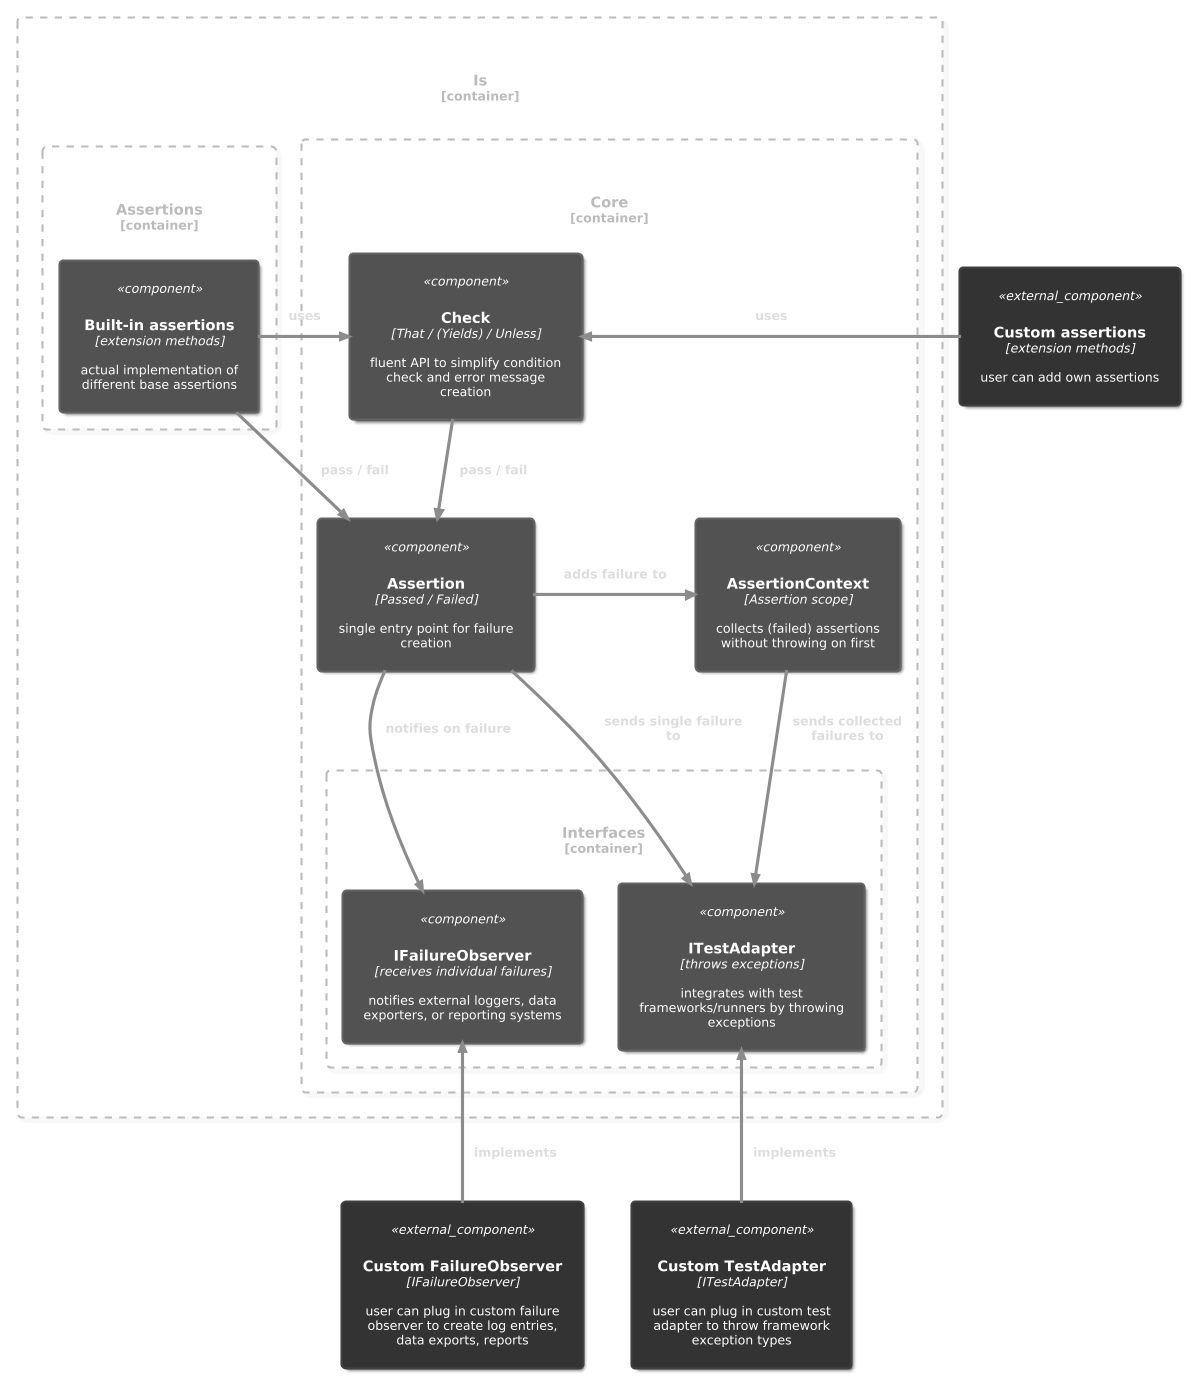
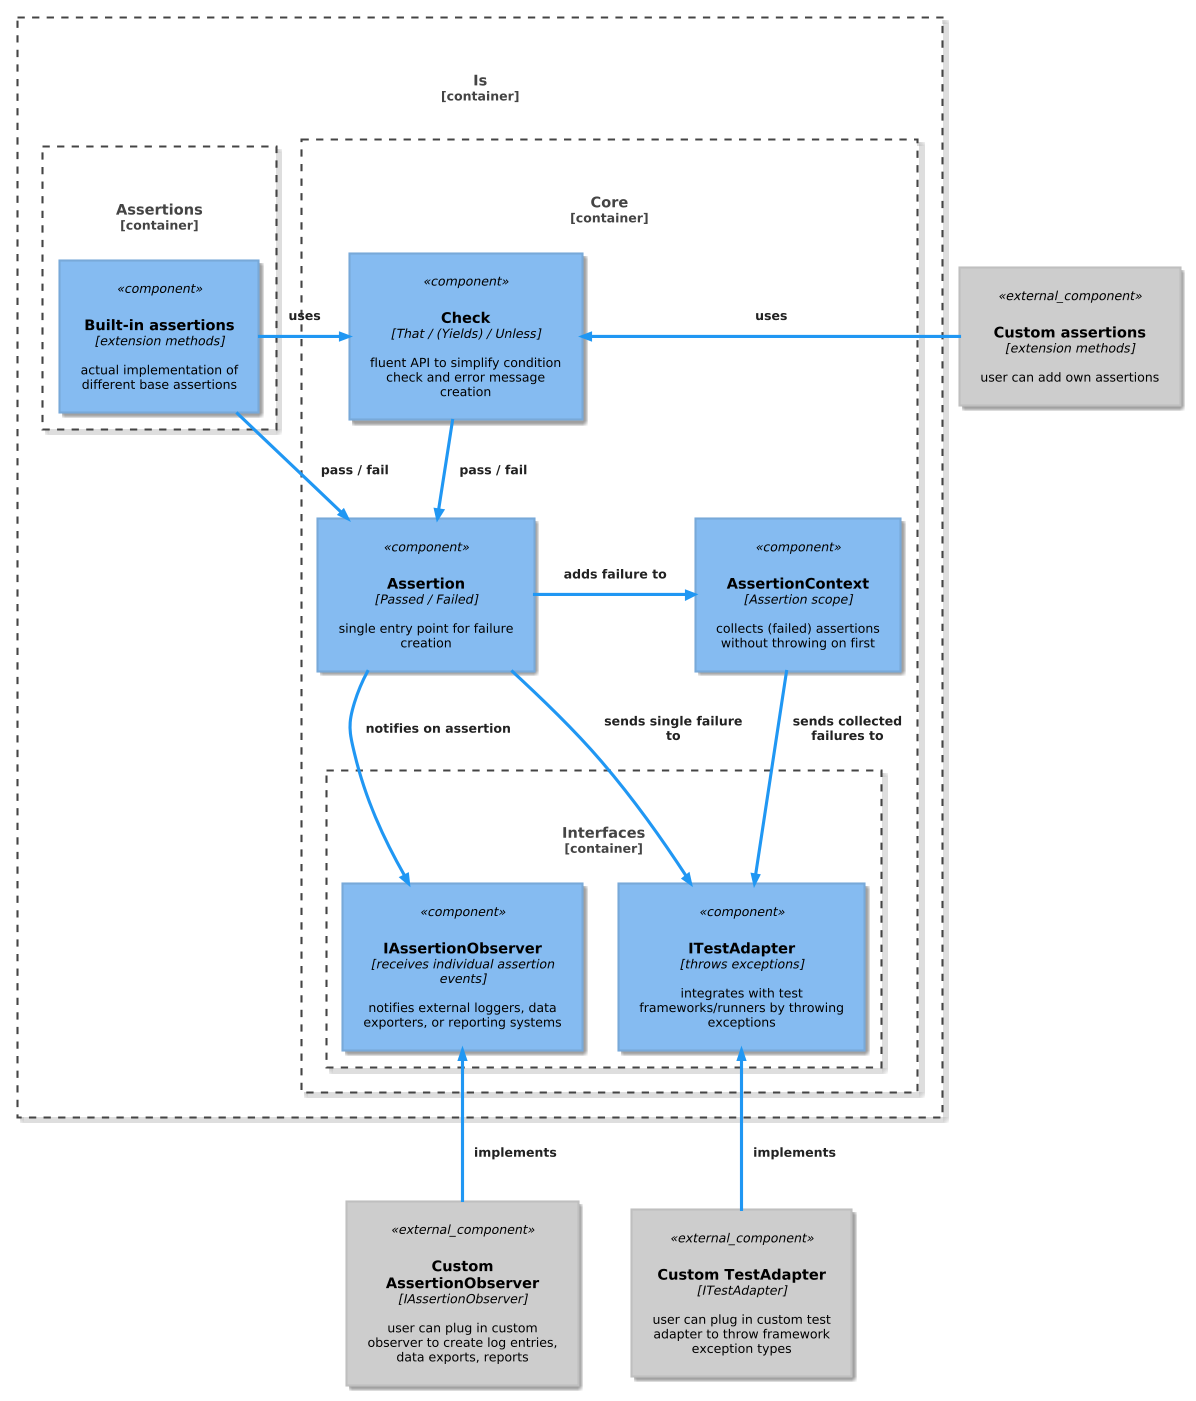
update docs

Changed region(s): [[0.0, 0.0, 0.99, 0.9942], [0.3712, 0.0621, 0.4331, 0.0932]]

diff --git a/README.md b/README.md
@@ -17,11 +17,16 @@
   - [Booleans](#booleans)
   - [Collections](#collections)
   - [Comparisons](#comparisons)
+  - [DateTimes](#datetimes)
   - [Delegates](#delegates)
+  - [Enums](#enums)
   - [Equality](#equality)
+  - [Files](#files)
   - [Null](#null)
   - [Strings](#strings)
   - [Types](#types)
+
+- [Guard Clauses](#guard-clauses)
 
 - [Custom Assertions](#custom-assertions)
   - [Example with `IsAssertion(s)` attribute](#example-with-isassertions-attribute)
@@ -33,7 +38,8 @@
   - [`AssertionContext` with using statement](#assertioncontext-with-using-statement)
   - [`AssertionContext` with Test Framework Attribute](#assertioncontext-with-test-framework-attribute)
   - [Disabling `ITestAdapter`](#disabling-itestadapter)
-  - [FailureReport with `IFailureObserver` ](#failurereport-with-ifailureobserver)
+  - [Assertion Reports with `IAssertionObserver`](#assertion-reports-with-iassertionobserver)
+    - [Built-in Observers](#built-in-observers)
 
 
 
@@ -121,6 +127,15 @@ Enumerable.Range(1, 3).IsUnique(); // ✅
 Enumerable.Range(1, 3).IsEmpty(); // ❌
 Enumerable.Range(1, 3).IsIn(0, 1, 2, 3, 4); // ✅
 Enumerable.Range(1, 3).IsEquivalentTo(Enumerable.Range(1, 3).Reverse()); // ✅
+
+// Order checking
+new[] { 1, 2, 3 }.IsOrdered(); // ✅
+new[] { 3, 2, 1 }.IsOrderedDescending(); // ✅
+
+// Deep equivalence (compares elements by value, not reference)
+var list1 = new[] { new { Name = "A" }, new { Name = "B" } };
+var list2 = new[] { new { Name = "A" }, new { Name = "B" } };
+list1.IsDeeplyEquivalentTo(list2); // ✅
 ```
 
 ### Comparisons
@@ -135,6 +150,16 @@ Enumerable.Range(1, 3).IsEquivalentTo(Enumerable.Range(1, 3).Reverse()); // ✅
 
 TimeSpan.Parse("1:23").IsApproximately(TimeSpan.Parse("1:24"), TimeSpan.FromMinutes(1)); // ✅
 TimeSpan.Parse("1:23").IsApproximately(TimeSpan.Parse("1:25"), TimeSpan.FromMinutes(1)); // ❌
+```
+
+### DateTimes
+```csharp
+var now = DateTime.Now;
+
+now.IsExpired(TimeSpan.FromHours(1)); // ❌ (not expired yet)
+now.IsSameDay(DateTime.Today); // ✅
+now.IsOlderThan(TimeSpan.FromMinutes(5)); // ❌
+now.IsYoungerThan(TimeSpan.FromMinutes(5)); // ✅
 ```
 
 ### Delegates
@@ -152,6 +177,12 @@ action.IsAllocatingAtMost(10_300); // ✅
 action.IsAllocatingAtMost(10_200); // ❌
 ```
 
+### Enums
+```csharp
+StatusCode.Pending.IsAnyOf(StatusCode.Pending, StatusCode.Processing); // ✅
+StatusCode.Completed.IsNoneOf(StatusCode.Pending, StatusCode.Processing); // ✅
+```
+
 ### Equality
 ```csharp
 (0.1 + 0.2).IsExactly(0.3); // ❌
@@ -162,6 +193,29 @@ action.IsAllocatingAtMost(10_200); // ❌
 Enumerable.Range(1, 4).Is(1, 2, 3, 4); // ✅
 Enumerable.Range(1, 4).Where(x => x % 2 == 0).Is(2, 4); // ✅
 Enumerable.Range(1, 4).Where(x => x % 3 == 0).Is(3); // ✅
+
+// Reference equality
+var obj = new object();
+obj.IsSameAs(obj); // ✅
+obj.IsSameAs(new object()); // ❌
+
+// Predicate-based assertion
+42.IsSatisfying(x => x > 0 && x < 100); // ✅
+
+// Deep object comparison
+var person1 = new { Name = "John", Age = 30 };
+var person2 = new { Name = "John", Age = 30 };
+person1.IsMatching(person2); // ✅ (compares all properties)
+
+// JSON Snapshot testing
+var data = new { Name = "Test", Value = 42 };
+data.IsMatchingSnapshot(); // Creates/validates against snapshot file
+```
+
+### Files
+```csharp
+"/path/to/file.txt".IsExisting(); // ✅ if file exists
+"/path/to/dir".IsExisting(); // ✅ if directory exists
 ```
 
 ### Null
@@ -193,6 +247,32 @@ groups[2].Value.Is("world"); // ✅
 
 
 
+
+## Guard Clauses
+
+`Is` provides convenient guard clause helpers for argument and operation validation, throwing standard .NET exception types:
+
+```csharp
+using static Is.Core.Check;
+
+// Argument validation - throws ArgumentException
+public void ProcessData(string data)
+{
+    Arg(!string.IsNullOrEmpty(data), "data cannot be null or empty");
+    // Process data...
+}
+
+// Operation validation - throws InvalidOperationException
+public void Connect()
+{
+    Op(!_isConnected, "Already connected");
+    // Connect...
+}
+```
+
+These are shorthand for:
+- `Arg(condition, message)` → `Check.That(condition).Unless<ArgumentException>(message)`
+- `Op(condition, message)` → `Check.That(condition).Unless<InvalidOperationException>(message)`
 
 
 ## Custom Assertions
@@ -248,14 +328,16 @@ If you do not want exception to be thrown at all, you can set this `ITestAdapter
 ### ITestAdapter example for NUnit
 
 ```csharp
+using Is.Core;
+
 public class NUnitTestAdapter : ITestAdapter
 {
-    public void ReportFailure(Failure failure) =>
-        throw new AssertionException(failure.Message);
+    public void ReportFailure(AssertionEvent assertionEvent) =>
+        throw new AssertionException(assertionEvent.Failure.Message);
 
-    public void ReportFailures(string message, List<Failure> failures)
+    public void ReportFailures(string message, List<AssertionEvent> assertionEvents)
     {
-        var messages = string.Join("\n\n", failures.Select(f => f.Message));
+        var messages = string.Join("\n\n", assertionEvents.Select(e => e.Failure.Message));
 
         throw new AssertionException($"{message}\n{messages}");
     }
@@ -292,8 +374,8 @@ using var ctx = AssertionContext.Begin();
 42.Is(0); // ❌
 true.IsTrue(); // ✅
 
-Failure fail1 = ctx.NextFailure(); // Dequeues first failure
-Failure fail2 = ctx.NextFailure(); // Dequeues second failure
+AssertionEvent event1 = ctx.NextFailure(); // Dequeues first failure
+AssertionEvent event2 = ctx.NextFailure(); // Dequeues second failure
 // At this point, the context is empty. No AggregateException will be thrown on Dispose.
 
 try
@@ -367,14 +449,27 @@ public void ContextTest_WithAttribute()
 If you don't want to throw exceptions at all, you can use the `ITestAdapter` instance in `Configuration.Active.TestAdapter` to disable any reporting failures to test runners by setting this instance to null.
 
 
-## FailureReport with `IFailureObserver` 
+## Assertion Reports with `IAssertionObserver` 
 
-If you prefer failure summaries over exception, `Is` comes with a `MarkDownObserver`, that exports every observed `Failure` by creating one report that includes all failures.
+If you prefer failure summaries over exceptions, `Is` comes with a `MarkDownObserver` that exports every observed assertion by creating one report that includes all failures.
 
 ```csharp
-public interface IFailureObserver
+using Is.Core;
+
+public interface IAssertionObserver
 {
-    void OnFailure(Failure failure);
+    void OnAssertion(AssertionEvent assertionEvent);
+}
+```
+
+An assertion event contains detailed information about the failure:
+
+```csharp
+public class AssertionEvent
+{
+    public Failure Failure { get; }           // The failure details
+    public string Caller { get; }             // The test/caller name
+    public DateTime Timestamp { get; }        // When it occurred
 }
 ```
 
@@ -384,7 +479,15 @@ A failure from an object graph comparison for example looks like this.
 
 Rich, Human-Readable Reports: Imagine CI/CD pipelines generating beautiful Markdown failure reports that are easy to read directly in GitHub/GitLab, Confluence, or even just a text editor. This is immensely valuable for teams, QA, and even non-technical stakeholders to understand failures without diving into raw log files or test runner UIs.
 
-Of course, you can even create your own `IFailureObserver` to redirect any failures to your favourite reporting or logging system.
+Of course, you can even create your own `IAssertionObserver` to redirect any failures to your favourite reporting or logging system.
+
+### Built-in Observers
+
+`Is` provides several built-in observers:
+
+- **MarkDownObserver**: Creates beautiful Markdown reports
+- **JsonObserver**: Exports failures as JSON
+- **ConsoleObserver**: Writes failures to the console
 
 
 
